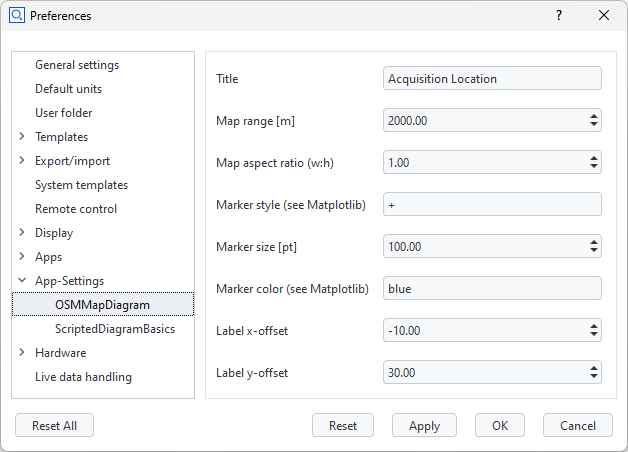
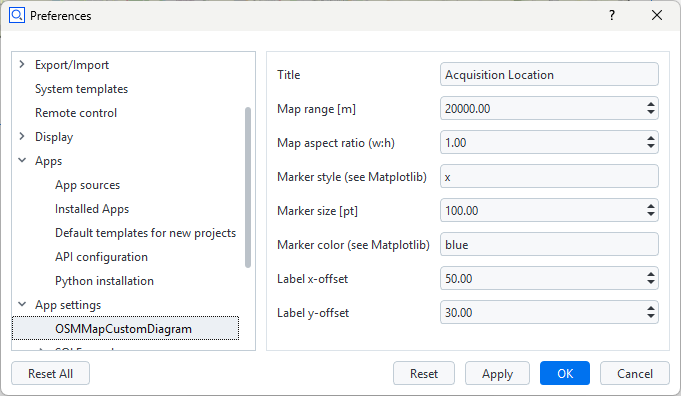
Added zoom (range) feature

diff --git a/AppExamples/custom_diagrams/OSMMapCustomDiagram/scripts/osm_map_custom_diagram.py b/AppExamples/custom_diagrams/OSMMapCustomDiagram/scripts/osm_map_custom_diagram.py
@@ -11,12 +11,17 @@ import gom.api.extensions.diagrams.matplotlib_tools as mpltools
 import gom.api.settings
 import matplotlib.pyplot as plt
 import numpy as np
+from matplotlib.patches import FancyBboxPatch
 
 
 @apicontribution
 class OSMMapCustomDiagram(gom.api.extensions.diagrams.SVGDiagram):
     """Render custom location elements on OpenStreetMap tiles."""
 
+    ZOOM_CONTROL_LEFT = 0.94
+    ZOOM_CONTROL_RIGHT = 0.98
+    ZOOM_CONTROL_CENTER = 0.96
+    ZOOM_CONTROL_SPLIT = 0.89
     MIN_VIEW_WIDTH = 64
     MIN_VIEW_HEIGHT = 64
     MIN_VIEW_DPI = 72.0
@@ -27,6 +32,17 @@ class OSMMapCustomDiagram(gom.api.extensions.diagrams.SVGDiagram):
             id='com.zeiss.example.osm_map_custom_diagram',
             description='OSM Map Custom Diagram'
         )
+        self.refresh_element_uuids = []
+        self.zoom_control_split_y = None
+
+    @staticmethod
+    def _element_uuid(element_entry):
+        element_uuid = element_entry.get('uuid')
+        element = element_entry.get('element')
+        element_getter = getattr(element, 'get', None)
+        if not element_uuid and callable(element_getter):
+            element_uuid = element_getter('uuid')
+        return element_uuid
 
     @staticmethod
     def _normalized_view(view):
@@ -51,9 +67,94 @@ class OSMMapCustomDiagram(gom.api.extensions.diagrams.SVGDiagram):
         return svg_buffer.getvalue()
 
     @staticmethod
-    def _export_svg(fig, view):
+    def _export_svg(fig, _view):
         """Export SVG while preserving the figure's explicit layout margins."""
         return OSMMapCustomDiagram._create_svg_string(fig)
+
+    @staticmethod
+    def _overlay_point(axis, x_coord, y_coord, view):
+        """Convert axes-relative coordinates into normalized diagram coordinates."""
+        display_point = axis.transAxes.transform((x_coord, y_coord))
+        return (
+            float(display_point[0]) / view['width'],
+            1.0 - float(display_point[1]) / view['height']
+        )
+
+    def _draw_zoom_controls(self, axis, view, overlay, interaction_uuid):
+        """Draw fixed zoom controls and register their interaction hitboxes."""
+        axis.add_patch(
+            FancyBboxPatch(
+                (self.ZOOM_CONTROL_LEFT, 0.81),
+                self.ZOOM_CONTROL_RIGHT - self.ZOOM_CONTROL_LEFT,
+                0.16,
+                transform=axis.transAxes,
+                boxstyle='round,pad=0.004,rounding_size=0.012',
+                facecolor='white',
+                edgecolor='#555555',
+                linewidth=0.8,
+                alpha=0.94,
+                zorder=20,
+                clip_on=False
+            )
+        )
+        axis.plot(
+            [self.ZOOM_CONTROL_LEFT, self.ZOOM_CONTROL_RIGHT],
+            [self.ZOOM_CONTROL_SPLIT, self.ZOOM_CONTROL_SPLIT],
+            transform=axis.transAxes,
+            color='#b0b0b0',
+            linewidth=0.7,
+            zorder=21,
+            clip_on=False
+        )
+        split_point = self._overlay_point(
+            axis,
+            self.ZOOM_CONTROL_CENTER,
+            self.ZOOM_CONTROL_SPLIT,
+            view
+        )
+        self.zoom_control_split_y = split_point[1] * view['height']
+        for symbol, y_coord in (('+', 0.93), ('-', 0.85)):
+            axis.text(
+                self.ZOOM_CONTROL_CENTER,
+                y_coord,
+                symbol,
+                transform=axis.transAxes,
+                ha='center',
+                va='center',
+                fontsize=14,
+                fontweight='bold',
+                color='black',
+                zorder=20
+            )
+            self.add_element_to_overlay(
+                overlay,
+                interaction_uuid,
+                self._overlay_point(axis, self.ZOOM_CONTROL_CENTER, y_coord, view),
+                element_name='Map zoom',
+                tooltip='Map zoom',
+                custom_interaction=True
+            )
+
+    def event(self, _element_name, element_uuid, event_data):
+        """Handle a zoom-control click and request a range update."""
+        if element_uuid not in self.refresh_element_uuids or self.zoom_control_split_y is None:
+            return None
+        mouse_position = event_data.get('mouse_position', {})
+        mouse_y = mouse_position.get('y')
+        if mouse_y is None:
+            return None
+        direction = 'in' if float(mouse_y) < self.zoom_control_split_y else 'out'
+        current_range = float(gom.api.settings.get('range'))
+        updated_range = current_range / 2 if direction == 'in' else current_range * 2
+        updated_range = min(1000000.0, max(100.0, updated_range))
+        return self.finish_event(
+            'osm_map_zoom_callback',
+            {
+                'direction': direction,
+                'range': updated_range,
+                'element_uuids': self.refresh_element_uuids
+            }
+        )
 
     def plot(self, view, element_data):
         safe_view = self._normalized_view(view)
@@ -63,16 +164,22 @@ class OSMMapCustomDiagram(gom.api.extensions.diagrams.SVGDiagram):
         )
         figure = mpltools.setup_plot(plt, safe_view)
         axis = figure.add_subplot(111, projection=request.crs)
+        overlay = {}
         figure.subplots_adjust(left=0.02, right=0.98, top=0.88, bottom=0.14)
         axis.set_position((0.03, 0.16, 0.94, 0.68))
 
         locations = [entry['data'] for entry in element_data]
+        self.refresh_element_uuids = [
+            element_uuid
+            for entry in element_data
+            if (element_uuid := self._element_uuid(entry))
+        ]
         latitudes = [location['latitude'] for location in locations]
         longitudes = [location['longitude'] for location in locations]
         lat_center = (min(latitudes) + max(latitudes)) / 2
         lon_center = (min(longitudes) + max(longitudes)) / 2
 
-        map_range = gom.api.settings.get('range')
+        map_range = float(locations[0].get('map_range', gom.api.settings.get('range')))
         aspect = gom.api.settings.get('aspect')
         delta = self._meters_to_degrees(map_range)
         zoom = min(self._zoom_level(delta) + self.TILE_ZOOM_OFFSET, 19)
@@ -80,15 +187,17 @@ class OSMMapCustomDiagram(gom.api.extensions.diagrams.SVGDiagram):
         panel_aspect = 0.94 * safe_view['width'] / (0.68 * safe_view['height'])
         map_aspect = max(float(aspect), panel_aspect)
         delta_lat = delta / map_aspect
-        axis.set_extent([
+        extent = [
             lon_center - longitude_delta,
             lon_center + longitude_delta,
             lat_center - delta_lat,
             lat_center + delta_lat
-        ])
+        ]
+        axis.set_extent(extent)
         axis.add_image(request, zoom)
         axis.set_aspect('equal', adjustable='box')
         axis.set_position((0.03, 0.16, 0.94, 0.68))
+        axis.set_extent(extent)
 
         marker_style = gom.api.settings.get('marker_style')
         marker_color = gom.api.settings.get('marker_color')
@@ -138,9 +247,10 @@ class OSMMapCustomDiagram(gom.api.extensions.diagrams.SVGDiagram):
             fontsize=8,
             bbox=dict(facecolor='white', alpha=0.8, edgecolor='none', pad=2)
         )
+        self._draw_zoom_controls(axis, safe_view, overlay, self.refresh_element_uuids[0])
         svg_string = self._export_svg(figure, safe_view)
         plt.close(figure)
-        return svg_string
+        return self.finish_plot(svg_string, overlay)
 
 
 gom.run_api()

diff --git a/AppExamples/custom_diagrams/OSMMapCustomDiagram/scripts/osm_map_zoom_callback.py b/AppExamples/custom_diagrams/OSMMapCustomDiagram/scripts/osm_map_zoom_callback.py
@@ -1,0 +1,35 @@
+"""Callback for changing the OSM map zoom range."""
+
+import gom
+import gom.api.settings
+
+
+def _refresh_diagram():
+    """Force recalculation because App settings are not project dependencies."""
+    try:
+        gom.script.sys.recalculate_visible_elements_in_all_stages(enable=True)
+        gom.script.sys.recalculate_project(with_reports=False)
+    except Exception as error:
+        gom.log.info(f'OSMMapCustomDiagram recalculation failed: {error}')
+
+
+def _select_elements(element_uuids):
+    """Reselect contributing elements so Inspection Details reloads its diagram."""
+    if not element_uuids:
+        return
+    try:
+        gom.script.sys.select_elements_by_uuid(elements=element_uuids)
+    except Exception as error:
+        gom.log.info(f'OSMMapCustomDiagram element selection failed: {error}')
+
+
+try:
+    gom.read_parameters(globals())
+    zoom_direction = globals().get('direction')
+    requested_range = globals().get('range')
+    if zoom_direction in ('in', 'out') and requested_range is not None:
+        gom.api.settings.set('range', float(requested_range))
+        _select_elements(globals().get('element_uuids'))
+        _refresh_diagram()
+except Exception as error:
+    gom.log.info(f'OSMMapCustomDiagram zoom callback failed: {error}')

diff --git a/AppExamples/custom_diagrams/OSMMapCustomDiagram/scripts/LocationScalarElement.py b/AppExamples/custom_diagrams/OSMMapCustomDiagram/scripts/LocationScalarElement.py
@@ -2,6 +2,7 @@
 
 import gom
 import gom.api.extensions.actuals
+import gom.api.settings
 
 from gom import apicontribution
 
@@ -25,6 +26,7 @@ class OSMMapLocation(gom.api.extensions.actuals.ValueElement):
 
     def compute(self, _context, values):
         """Validate geolocation values and return the diagram payload."""
+        map_range = float(gom.api.settings.get('range'))
         latitude = float(values['lat'])
         longitude = float(values['lon'])
         altitude_enabled = bool(values.get('en_alt'))
@@ -38,7 +40,7 @@ class OSMMapLocation(gom.api.extensions.actuals.ValueElement):
         name = values.get('name', 'GeoLocation')
         label = values.get('label', '')
         return {
-            'value': 42.0,
+            'value': map_range,
             'name': name,
             'latitude': latitude,
             'longitude': longitude,
@@ -51,7 +53,8 @@ class OSMMapLocation(gom.api.extensions.actuals.ValueElement):
                 'longitude': longitude,
                 'altitude': altitude,
                 'altitude_enabled': altitude_enabled,
-                'label': label
+                'label': label,
+                'map_range': map_range
             }
         }
 

diff --git a/AppExamples/custom_diagrams/OSMMapCustomDiagram/doc/Documentation.md b/AppExamples/custom_diagrams/OSMMapCustomDiagram/doc/Documentation.md
@@ -15,34 +15,64 @@ Location information is entered manually in the custom element dialog.
 
 Review [Using custom diagrams](https://zeiss.github.io/zeiss-inspect-app-api/2027/howtos/using_custom_diagrams/using_custom_diagrams.html) and [Custom actuals and nominals](https://zeiss.github.io/zeiss-inspect-app-api/2027/howtos/custom_elements/custom_nominals_actuals.html).
 
+> [!WARNING]
+> This App requires Python 3.13.x because the current version of Cartopy does not provide a binary wheel for Python 3.14.x. See [Adding and using specific Python versions](https://zeiss.github.io/zeiss-inspect-app-api/2027/howtos/python_versions/python_versions.html) for setup instructions.
+
 ## Diagram data routing
 
 The custom element returns data using the modern API contract:
 
 ```python
 {
-    'value': 42.0, # dummy data
+    'value': 5000.0,
     'data': {
         'latitude': 51.0,
         'longitude': 13.0,
         'altitude': None,
-        'label': 'Location'
+        'label': 'Location',
+        'map_range': 5000.0
     }
 }
 ```
+
+The scalar value and `map_range` track the current map range. This makes a zoom-triggered element recalculation produce changed project data, which causes Inspection Details to request a fresh diagram render.
 
 `finish()` calls `add_diagram_data()` with the diagram contribution ID instead of the legacy `ude_diagram_*` fields.
 
 ## Diagram settings
 
-Map title, range, aspect ratio, marker style, marker size, marker color, and label offsets are available under Preferences > App-Settings. They are defined in `metainfo.json` and read through the Settings API.
+![Geolocation App settings](geolocation_app_settings.png)
+
+The map settings are available under **Preferences > App settings > OSMMapCustomDiagram**. They are defined in `metainfo.json` and accessed through the [Settings API](https://zeiss.github.io/zeiss-inspect-app-api/2027/python_api/python_api.html#gom-api-settings).
+
+| Setting | Description |
+| --- | --- |
+| Title | Heading displayed above the map. |
+| Map range [m] | Geographic range around the center of all locations. The interactive `+` and `-` controls also update this value. |
+| Map aspect ratio (w:h) | Minimum width-to-height ratio used for the geographic extent. The diagram also accounts for the available panel dimensions. |
+| Marker style (see Matplotlib) | Matplotlib marker symbol used for each location, for example `x` or `o`. |
+| Marker size [pt] | Size of the location markers. |
+| Marker color (see Matplotlib) | Matplotlib color specification used for the location markers, for example `blue` or `#0050b3`. |
+| Label x-offset | Horizontal offset of labels from their location markers, in points. |
+| Label y-offset | Vertical offset of labels from their location markers, in points. |
 
 ## View the map diagram
 
 The map is shown in the Inspection Details tab in the 3D view. Adding or editing contributing location elements updates the diagram.
 
+## Interactive zoom
+
+The map provides `+` and `-` controls in its upper-right corner. They are SVG diagram overlay points, so the controls remain fixed to the map frame rather than moving with the geographic coordinates.
+
+Clicking `+` halves the `range` setting; clicking `-` doubles it. The range is clamped to 100 m through 1,000,000 m. Each click updates the App setting and forces element recalculation because App settings are not tracked by the project dependency graph. The changed location result causes the diagram to render again with the corresponding geographic extent and Cartopy tile zoom. Previously downloaded tiles can be reused from Cartopy's local cache.
+
+The controls use the `SVGDiagram` event callback mechanism and do not provide map panning. The regular userscript callback calls `gom.read_parameters(globals())` before reading the `finish_event()` payload, as required by ZEISS INSPECT 2025 and later.
+
+When installing or updating this example from an external folder, refresh the App in the App Editor after adding the callback files.
+
 ## References
 
-- [Cartopy documentation](https://cartopy.readthedocs.io/en/stable/)
+- [Cartopy documentation](https://cartopy.readthedocs.io/stable/)
+- [Cartopy OpenStreetMap tiles API](https://cartopy.readthedocs.io/stable/reference/generated/cartopy.io.img_tiles.OSM.html)
 - [OpenStreetMap](https://www.openstreetmap.org/)
 - [OpenStreetMap tile usage policy](https://operations.osmfoundation.org/policies/tiles/)
